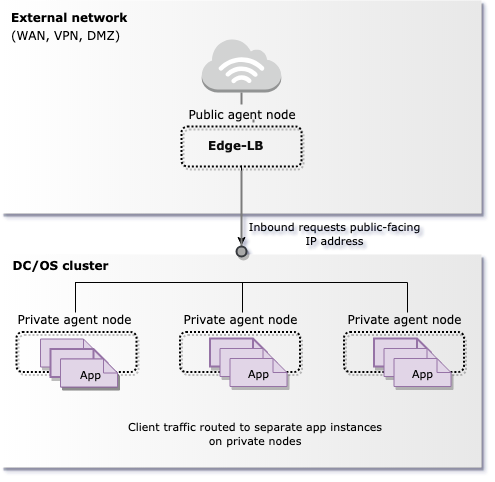
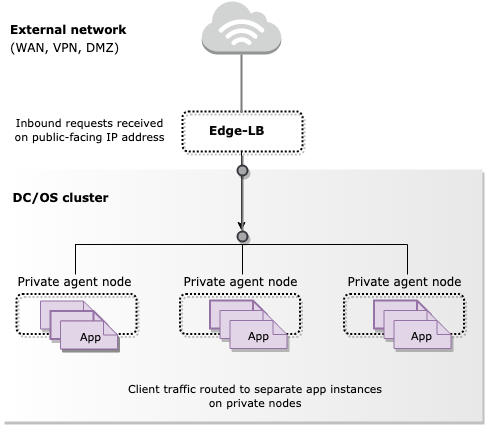
Start reworking Edge-LB concepts topics.

Changed region(s): [[0.0, 0.0, 1.0, 1.0], [0.3402, 0.6424, 0.6495, 0.8259], [0.0, 0.0306, 0.2784, 0.1224]]

diff --git a/pages/services/edge-lb/concepts/what-is-edge-lb/index.md b/pages/services/edge-lb/concepts/what-is-edge-lb/index.md
@@ -6,35 +6,38 @@ menuWeight: 5
 excerpt: Introduces the high-level capability that Edge-LB provides
 enterprise: true
 ---
-Edge-LB (Load Balancer) is an highly available, fault tolerant, health-aware, and scalable North-South load-balancer for internet-facing Layer-7 traffic ingressing into the DC/OS cluster. It proxies and load balances traffic to all services running on the cluster. It provides the functionality to load balance traffic for TCP, HTTP-based application, SSL support, and health-checking. 
+Conceptually, a load balancer provides a network layer that distributes client requests to applications. In its simplest form, you can envision load balancing represented like this:
 
-Edge-LB provides an integrated load balancing solution for your stateful and stateless workloads. Its platform awareness, configurability, and scalability will simplify your development. It enables DC/OS operators and users to build applications and frameworks that make full use of the DC/OS platform. Customers can expose their applications that include custom frameworks using the customizable Edge-LB.
+![Load balancing in its simplest form](../../img/conceptual-load-balancer.png)
 
-Edge-LB provides ingress for internet-facing traffic to the DC/OS cluster for not only Marathon-based apps, but all other apps and data services deployed using the DC/OS SDK, including Cassandra, Kafka, and Spark. This allows the operator greater flexibility for operating the DC/OS cluster for L7 traffic.
+Edge-LB provides a proxy and load balancing orchestration layer to help you distribute traffic for services that run on DC/OS Enterprise clusters. As a highly available and fault tolerant service, Edge-LB presents a scalable solution for handling layer-7 application-level network communication, capable of receiving requests from outside of the firewall, establishing a secure communication channel, and directing the inbound requests securely to services inside of the DC/OS cluster.
 
-Edge-LB addresses the challenge of exposing contained apps within the cluster to the outside world. It is available in all three interfaces of CLI, GUI, and API of your choice. You can install the Edge-LB from the GUI, then can deploy load-balancing configuration through DC/OS CLI client. Edge-LB is integrated with DC/OS Secret store for secure certificate usage and storage. Application developers can leverage the built-in support for security in DC/OS when they are deploying their applications. It provides advanced configuration options to expose applications for high performance and high availability environments.
+The following diagram provides a simplified overview of Edge-LB load balancing.
 
-The load balancer increases the availability of the applications. An operator can have multiple pool instances for high availability of the applications running on DC/OS cluster. The pool instances can be added or removed depending on the need. You can scale up and down depending on the deployment scenarios. You can select specific ports for frontend and backend connections for maximum flexibility or allow frontend and backend ports to be assigned dynamically.
+![Simplified overview of Edge-LB](../../img/Edge-LB-Basic-01.png)
 
-Edge-LB pool is health-aware. You can configure health-checks to monitor the health of the Edge-LB pool instances. This ensures all traffics are routed to the healthy Edge-LB pools.
+As the diagram suggests, Edge-LB provides an inbound entry point for internet-facing layer-7 traffic needing access to the DC/OS cluster. This inbound entry point, often referred to as the ingress, exposes TCP, HTTP, and HTTPS routes from outside the cluster to services running on nodes within the cluster. The details of how traffic is routed from externally-reachable URLs to services within the cluster is controlled by the rules you configure for Edge-LB.
 
-There is no restriction of using Edge-LB with other load balancers as well. You can achieve high availability by placing a hardware or public cloud load balancer in front of Edge-LB for routing internet-facing traffic into the cluster. For example, you can use an external F5 load balancer on-premise, or an Elastic load balancer (ELB) on Amazon Web Services. The following diagram illustrates a high-availability load balancer configuration with an external hardware load balancer placed in front of Edge-LB:
+# Key benefits Edge-LB provides
+Some of the key benefits of deploying Edge-LB as a gateway to your cluster include:
 
-<p>
-<img src="/services/edge-lb/img/Edge-LB-1.png" alt="Simplified overview of Edge-LB architecture">
-<p>
+- Load balancing for application-level (layer-7) TCP, HTTP,  and HTTPS-based traffic needing access to the DC/OS cluster.
+
+- Load balancing for both stateful and stateless workloads associated with the services running on the DC/OS cluster, including services deployed using other frameworks such as Cassandra, Kafka, and Spark, and custom applications.
+
+- Secure communication through encrypted SSL certificates from external clients to the edge of the cluster, to application containers, or to individual application instances.
+
+- Logging and health checking related to load balancing operations to ensure traffic is routed to appropriate available Edge-LB instances.
+
+- Compliance with the Container Network Interface (CNI) standards enable you deploy Edge-LB on CNI-based networks and decouple load balancing from the transport layer underneath.
+
+- API support for scripted operations or automation.
+
+# Using Edge-LB with other load balancers
+There is no restriction of using Edge-LB with other load balancers as well. You can achieve high availability by placing a hardware or public cloud load balancer in front of Edge-LB for routing internet-facing traffic into the cluster. For example, you can use an external F5 load balancer on-premise, or an Elastic load balancer (ELB) on Amazon Web Services. 
+
+The following diagram illustrates a high-availability load balancer configuration with an external hardware load balancer placed in front of Edge-LB:
+
+![Using an external load balancer with Edge-LB](../../img/Edge-LB-Basic-02.png)
 
 Using an external load balancer in conjunction with Edge-LB is optional, but can improve the overall fault tolerance for the DC/OS cluster.
-
-Edge-LB is particularly well-suited to work with the Mesos framework that is schedule-aware. It is integrated with Mesos and has the ability to load balance any service running on DC/OS. It provides much more flexibility in terms on configuration management with advanced configuration flexible.
-
-Some benefits of Edge-LB are:
-- Proxies and load balances layer-7 traffic ingressing into DC/OS cluster.
-- Clients and applications can easily expose and access load-balanced all DC/OS services through Edge-LB.
-- It works for all services running on DC/OS cluster not just Marathon-based apps.
-- Edge-LB pools are health-aware.
-- Operators can create pools of load balancers with high availability for services.
-	
-Leveraging DC/OS’s support for CNI (Container Network Interface), Edge-LB builds upon this industry standard model to enable the load balancer instances to reside on CNI-based networks and be further decoupled from the transport layer underneath.
-
-While Edge-LB provides North-South load balancing, if you are interested in East-West (internal to internal) load balancing in the DC/OS cluster, you can use the DC/OS layer-4 load balancer [`dcos-l4lb`](/1.13/networking/#load-balancing).

diff --git a/pages/services/edge-lb/concepts/index.md b/pages/services/edge-lb/concepts/index.md
@@ -10,11 +10,3 @@ enterprise: true
 At its core, Edge-LB provides secure communication, load balancing, and workload distribution for external client requests wanting access to services running inside of DC/OS clusters. The application name, node, and port define the **frontend** for the inbound request. The load balancer applies its configuration rules and routes the inbound traffic to the appropriate **backend** servers that are configured to respond to the service request.
 
 This type of **external-to-internal** or **North-South** load balancing is the most common scenario. However, you can also use Edge-LB for load balancing and workload distribution when both the clients requesting access and the services available are both running inside of the DC/OS cluster. This type of **internal-only** or **East-West** load balancing is most often managed through the DC/OS networking layer (`dcos-net`) by the distributed layer-4 load balancer `dcos-l4lb` (previously known as Minuteman). Edge-LB augments the native layer-4 load balancer by providing layer-7 load balancing for internal traffic and granular control over how traffic is routed for all inbound requests whether they originate inside or outside of the DC/OS cluster. For more information about the network stack and using the native layer-4 load balancer, see [load balancing](/1.13/networking/#load-balancing).
-
-<!--To handle its load balancing and distribution duties, Edge-LB leverages features and configuration options supported by `HAProxy`. `HAProxy` is an open-source project that provides:
-- Load balancing for TCP and HTTP-based applications
-- Secure communication through encrypted SSL certificates from external clients to the edge of the cluster, to application containers, or to individual application instances.
-- Logging and health checking related to load balancing operations. 
-- API support for scripted operations or automation.
-
-Edge-LB also supports zero-downtime service deployment strategies. Zero-downtime deployment strategies enable organizations to make service changes -- for example, to handle an application upgrade or to roll back to the previous version -- in a phased approach that minimizes the potential for service interruption rather than all at once. This type of phased deployment or application rollout is sometimes referred to as a **blue/green deployment**. -->
